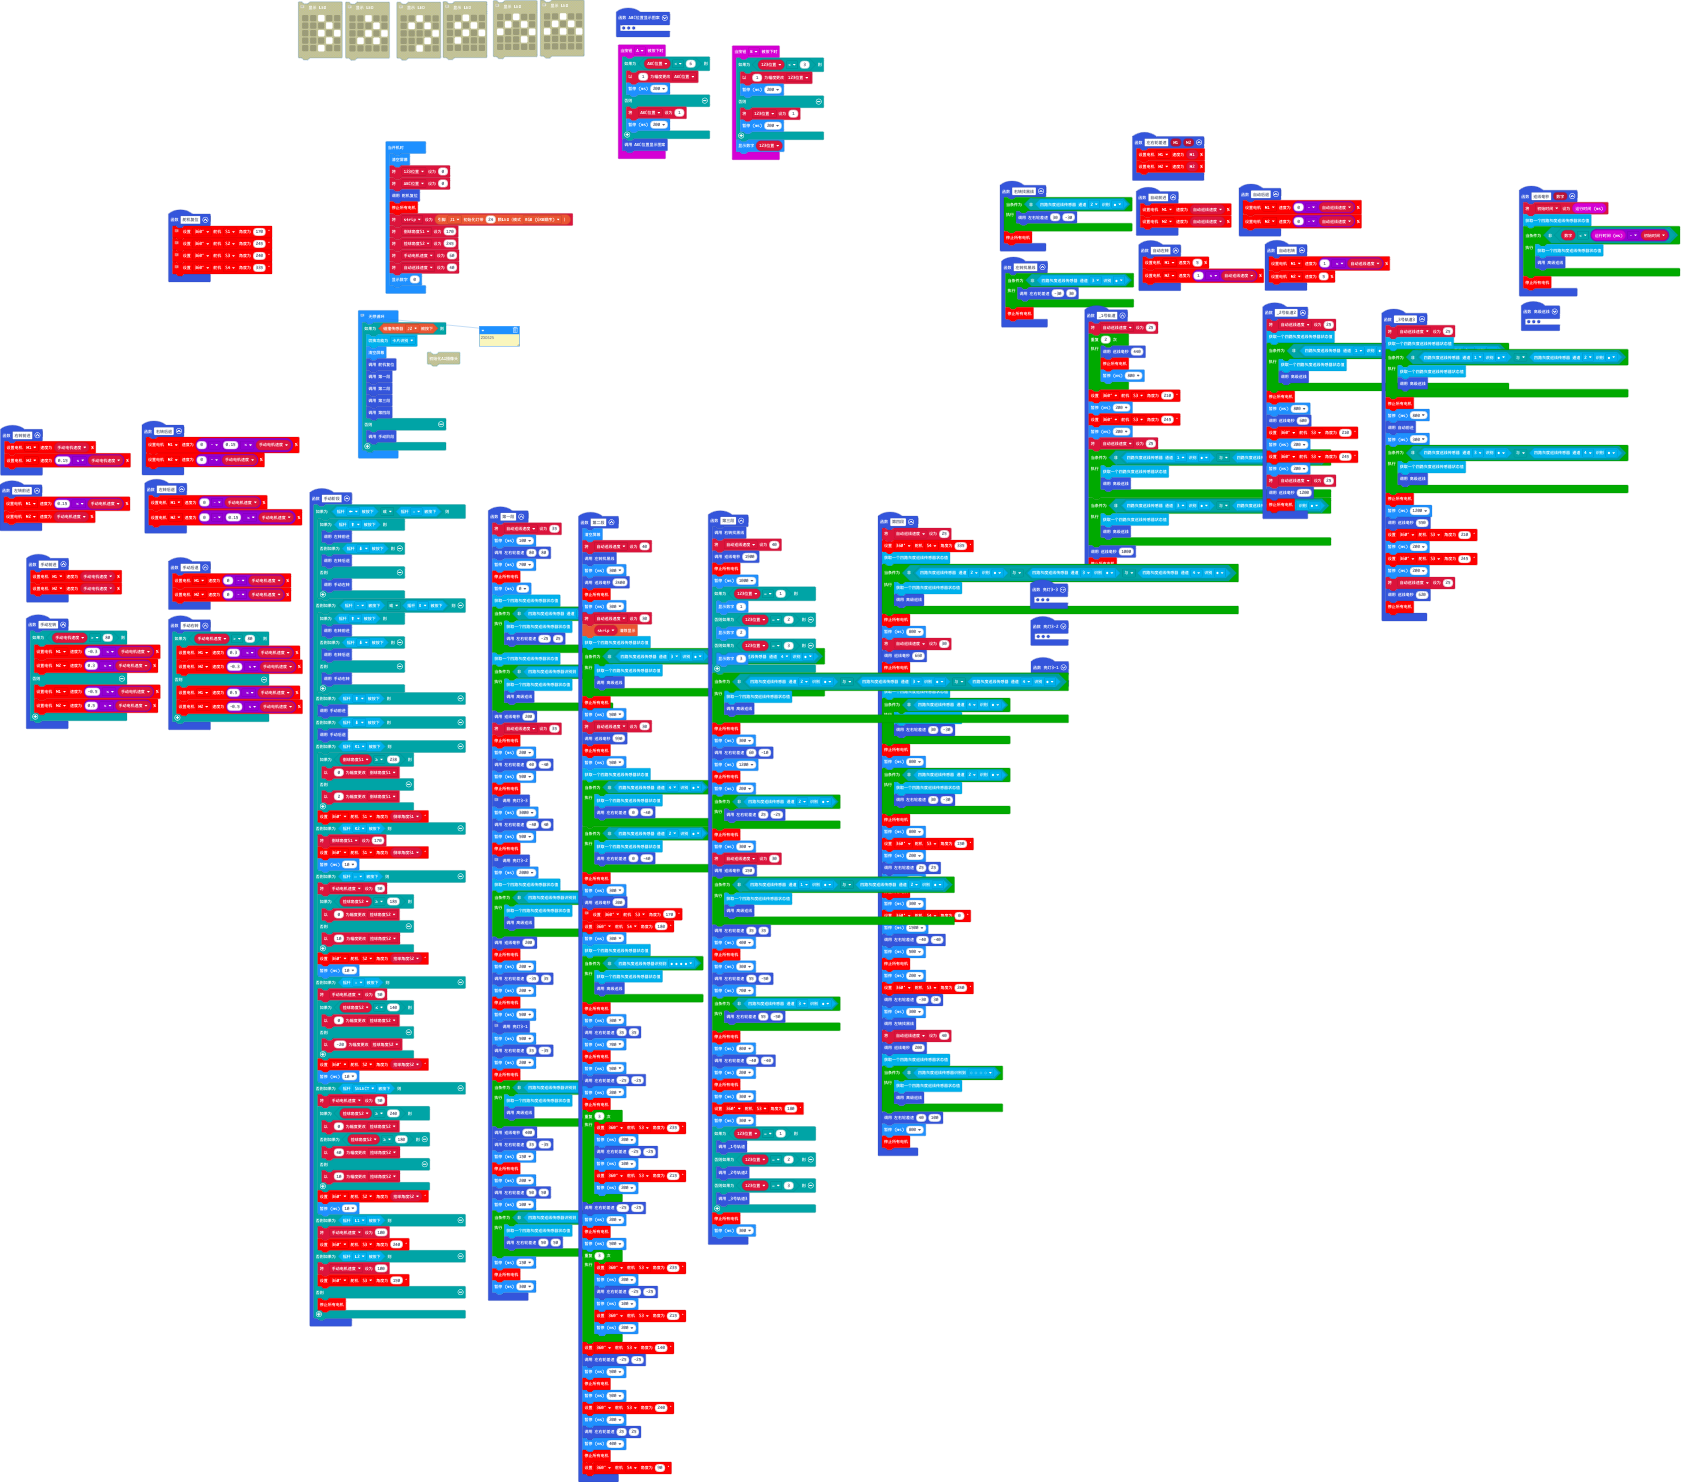
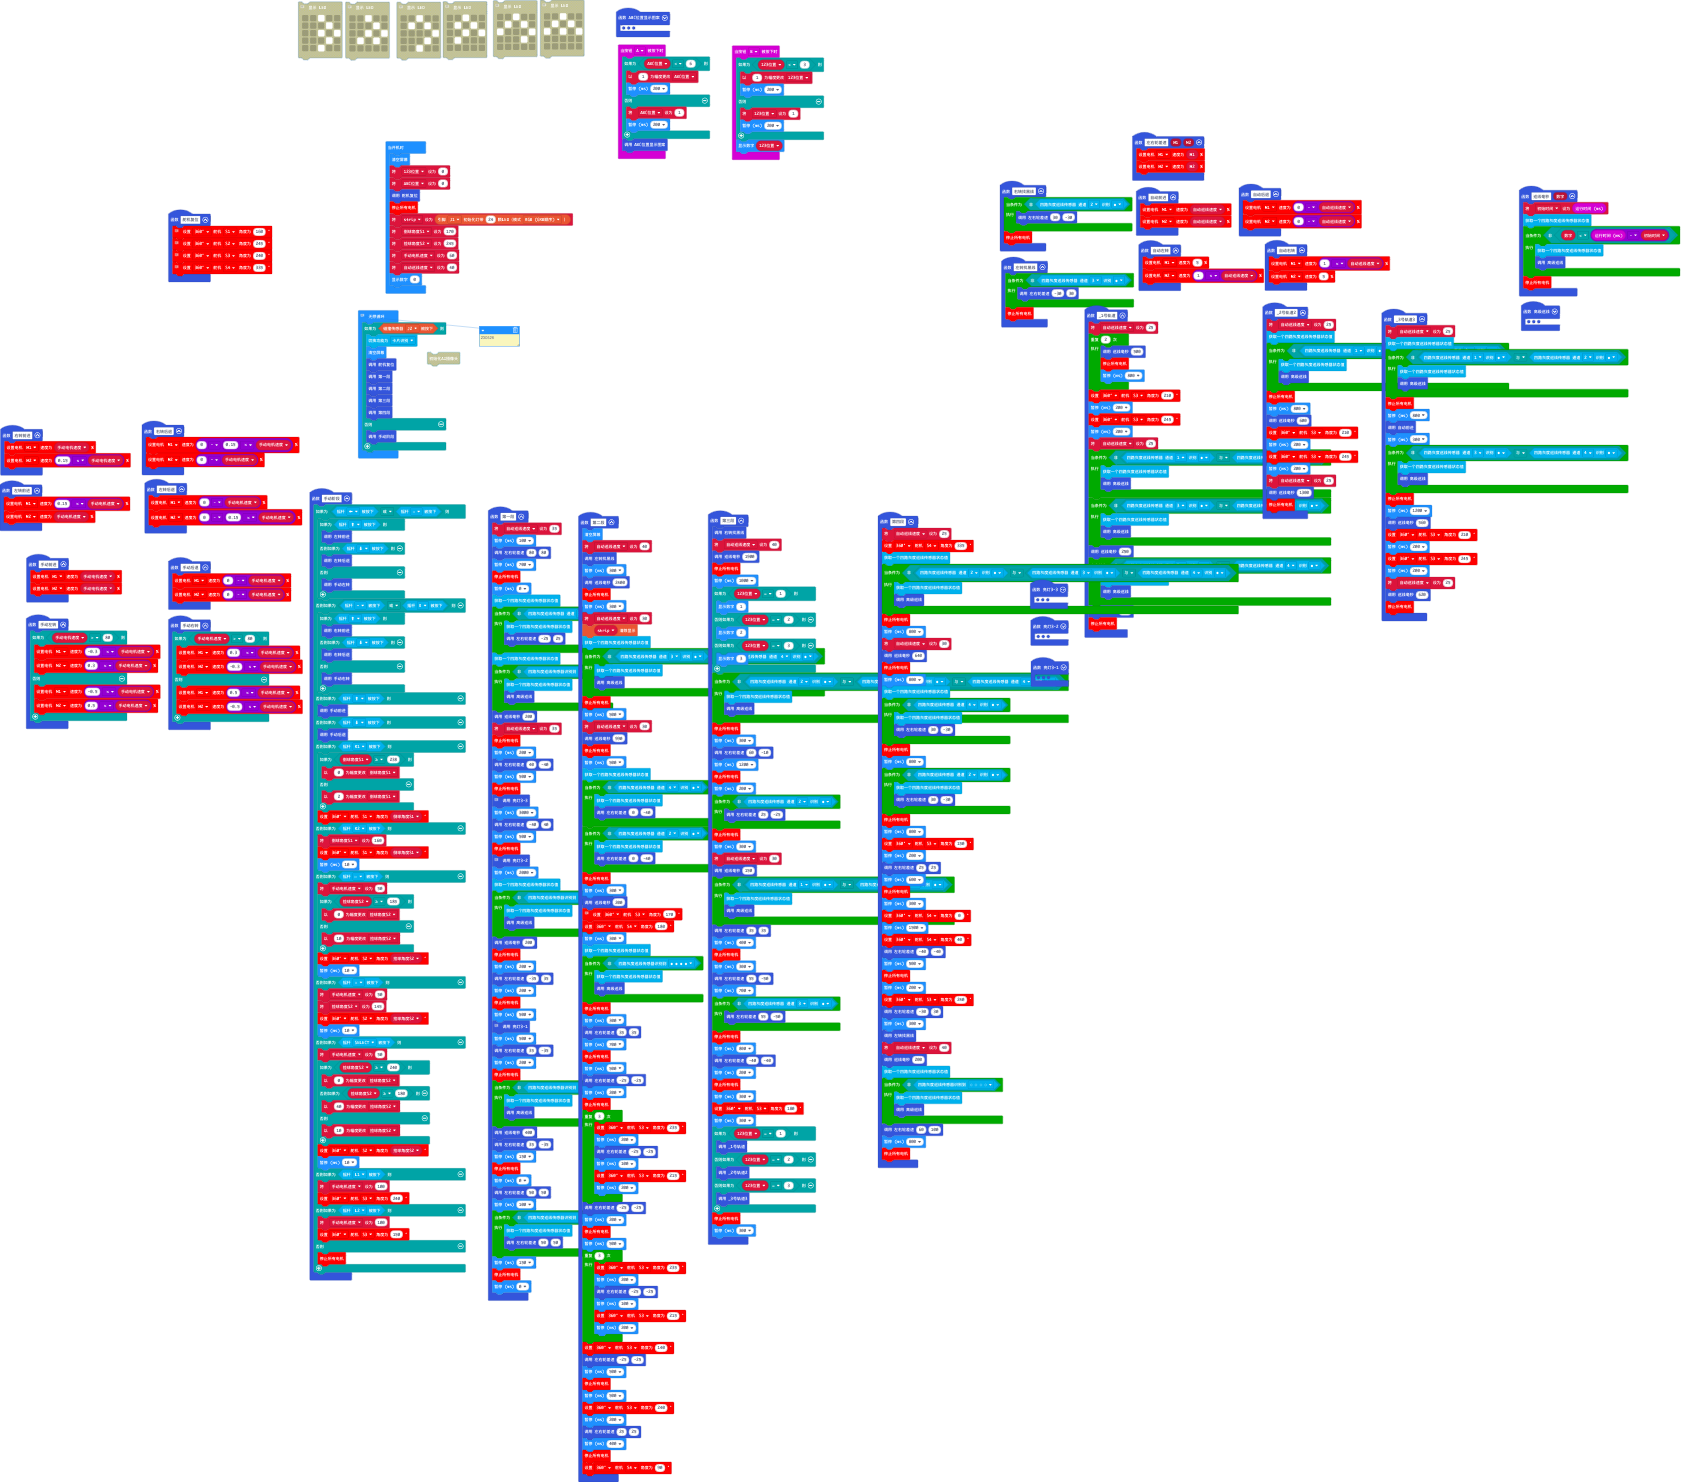
更新 main.blocks, main.ts

diff --git a/main.ts b/main.ts
@@ -92,7 +92,7 @@ function 巡线毫秒 (数字: number) {
 }
 function 舵机复位 () {
     // 倒球
-    neZha.setServoAngel(neZha.ServoTypeList._360, neZha.ServoList.S1, 170)
+    neZha.setServoAngel(neZha.ServoTypeList._360, neZha.ServoList.S1, 160)
     // 捡球
     neZha.setServoAngel(neZha.ServoTypeList._360, neZha.ServoList.S2, 245)
     // 前叉
@@ -129,7 +129,7 @@ function 手动阶段 () {
         }
         neZha.setServoAngel(neZha.ServoTypeList._360, neZha.ServoList.S1, 倒球角度S1)
     } else if (PlanetX_Basic.get_Attention_Value(PlanetX_Basic.value_level.Right2)) {
-        倒球角度S1 = 170
+        倒球角度S1 = 160
         neZha.setServoAngel(neZha.ServoTypeList._360, neZha.ServoList.S1, 倒球角度S1)
         basic.pause(10)
     } else if (PlanetX_Basic.get_Attention_Value(PlanetX_Basic.value_level.Tri)) {
@@ -143,11 +143,7 @@ function 手动阶段 () {
         basic.pause(10)
     } else if (PlanetX_Basic.get_Attention_Value(PlanetX_Basic.value_level.X)) {
         手动电机速度 = 50
-        if (捡球角度S2 <= 140) {
-            捡球角度S2 += 0
-        } else {
-            捡球角度S2 += -20
-        }
+        捡球角度S2 = 145
         neZha.setServoAngel(neZha.ServoTypeList._360, neZha.ServoList.S2, 捡球角度S2)
         basic.pause(10)
     } else if (PlanetX_Basic.get_Attention_Value(PlanetX_Basic.value_level.Sele)) {
@@ -241,7 +237,7 @@ function _3号轨道3 () {
     }
     neZha.stopAllMotor()
     basic.pause(1200)
-    巡线毫秒(550)
+    巡线毫秒(560)
     neZha.setServoAngel(neZha.ServoTypeList._360, neZha.ServoList.S3, 210)
     basic.pause(200)
     neZha.setServoAngel(neZha.ServoTypeList._360, neZha.ServoList.S3, 245)
@@ -440,7 +436,7 @@ function _2号轨道2 () {
     neZha.setServoAngel(neZha.ServoTypeList._360, neZha.ServoList.S3, 245)
     basic.pause(200)
     自动巡线速度 = 25
-    巡线毫秒(1200)
+    巡线毫秒(1300)
     neZha.stopAllMotor()
 }
 function 左右轮差速 (M1: number, M2: number) {
@@ -450,7 +446,7 @@ function 左右轮差速 (M1: number, M2: number) {
 function _1号轨道 () {
     自动巡线速度 = 25
     for (let index = 0; index < 2; index++) {
-        巡线毫秒(440)
+        巡线毫秒(500)
         neZha.stopAllMotor()
         basic.pause(800)
     }
@@ -467,7 +463,12 @@ function _1号轨道 () {
         PlanetX_Basic.Trackbit_get_state_value()
         高级巡线()
     }
-    巡线毫秒(1000)
+    巡线毫秒(250)
+    while (!(PlanetX_Basic.TrackbitChannelState(PlanetX_Basic.TrackbitChannel.Three, PlanetX_Basic.TrackbitType.State_1) && PlanetX_Basic.TrackbitChannelState(PlanetX_Basic.TrackbitChannel.Four, PlanetX_Basic.TrackbitType.State_1))) {
+        PlanetX_Basic.Trackbit_get_state_value()
+        高级巡线()
+    }
+    巡线毫秒(400)
     neZha.stopAllMotor()
 }
 input.onButtonPressed(Button.B, function () {
@@ -495,7 +496,7 @@ function 第四段 () {
     neZha.stopAllMotor()
     basic.pause(800)
     自动巡线速度 = 30
-    巡线毫秒(660)
+    巡线毫秒(640)
     neZha.stopAllMotor()
     basic.pause(800)
     PlanetX_Basic.Trackbit_get_state_value()
@@ -519,6 +520,7 @@ function 第四段 () {
     basic.pause(300)
     neZha.setServoAngel(neZha.ServoTypeList._360, neZha.ServoList.S4, 0)
     basic.pause(1500)
+    neZha.setServoAngel(neZha.ServoTypeList._360, neZha.ServoList.S4, 40)
     左右轮差速(-40, -40)
     basic.pause(500)
     neZha.stopAllMotor()
@@ -534,7 +536,7 @@ function 第四段 () {
         PlanetX_Basic.Trackbit_get_state_value()
         高级巡线()
     }
-    左右轮差速(40, 100)
+    左右轮差速(60, 100)
     basic.pause(800)
     neZha.stopAllMotor()
 }
@@ -597,7 +599,7 @@ function 第一段 () {
     左右轮差速(35, -35)
     basic.pause(150)
     neZha.stopAllMotor()
-    basic.pause(200)
+    basic.pause(0)
     左右轮差速(50, 50)
     basic.pause(100)
     while (!(PlanetX_Basic.TrackbitState(PlanetX_Basic.TrackbitStateType.Tracking_State_5))) {
@@ -606,7 +608,7 @@ function 第一段 () {
     }
     basic.pause(150)
     neZha.stopAllMotor()
-    basic.pause(300)
+    basic.pause(0)
 }
 function 自动右转 () {
     neZha.setMotorSpeed(neZha.MotorList.M1, 1 * 自动巡线速度)
@@ -640,7 +642,7 @@ strip = PlanetX_Display.create(PlanetX_Display.DigitalRJPin.J1, 24, PlanetX_Disp
 手动电机速度 = 60
 自动巡线速度 = 40
 basic.showNumber(0)
-// 230525
+// 230526
 basic.forever(function () {
     if (PlanetX_Basic.Crash(PlanetX_Basic.DigitalRJPin.J2)) {
         PlanetX_AILens.switchfunc(PlanetX_AILens.FuncList.Card)
